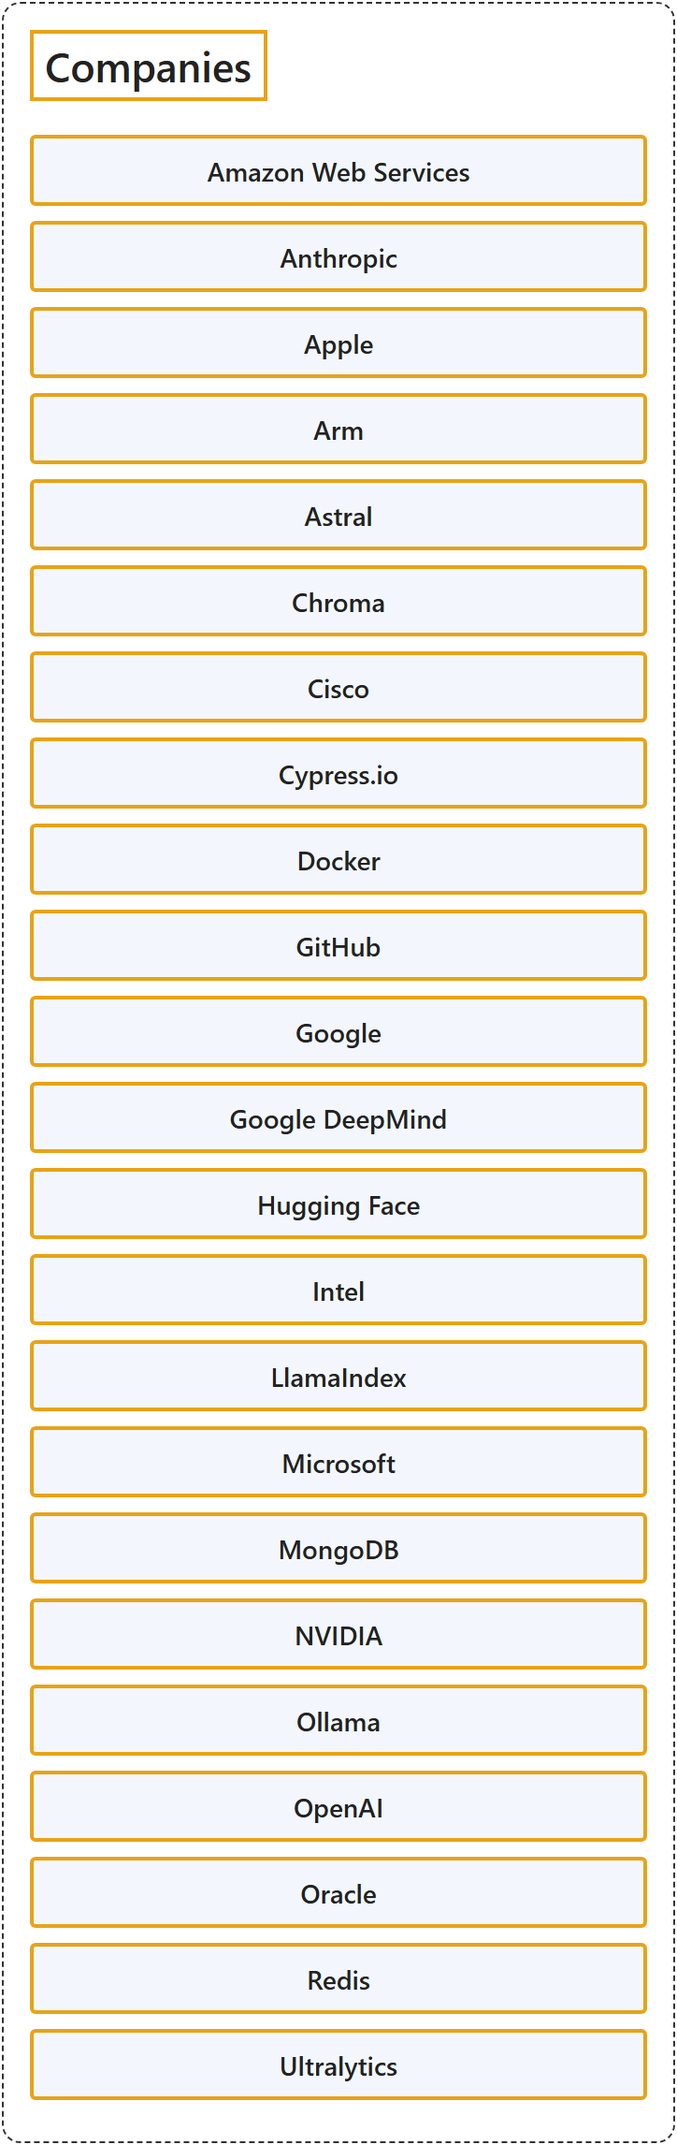
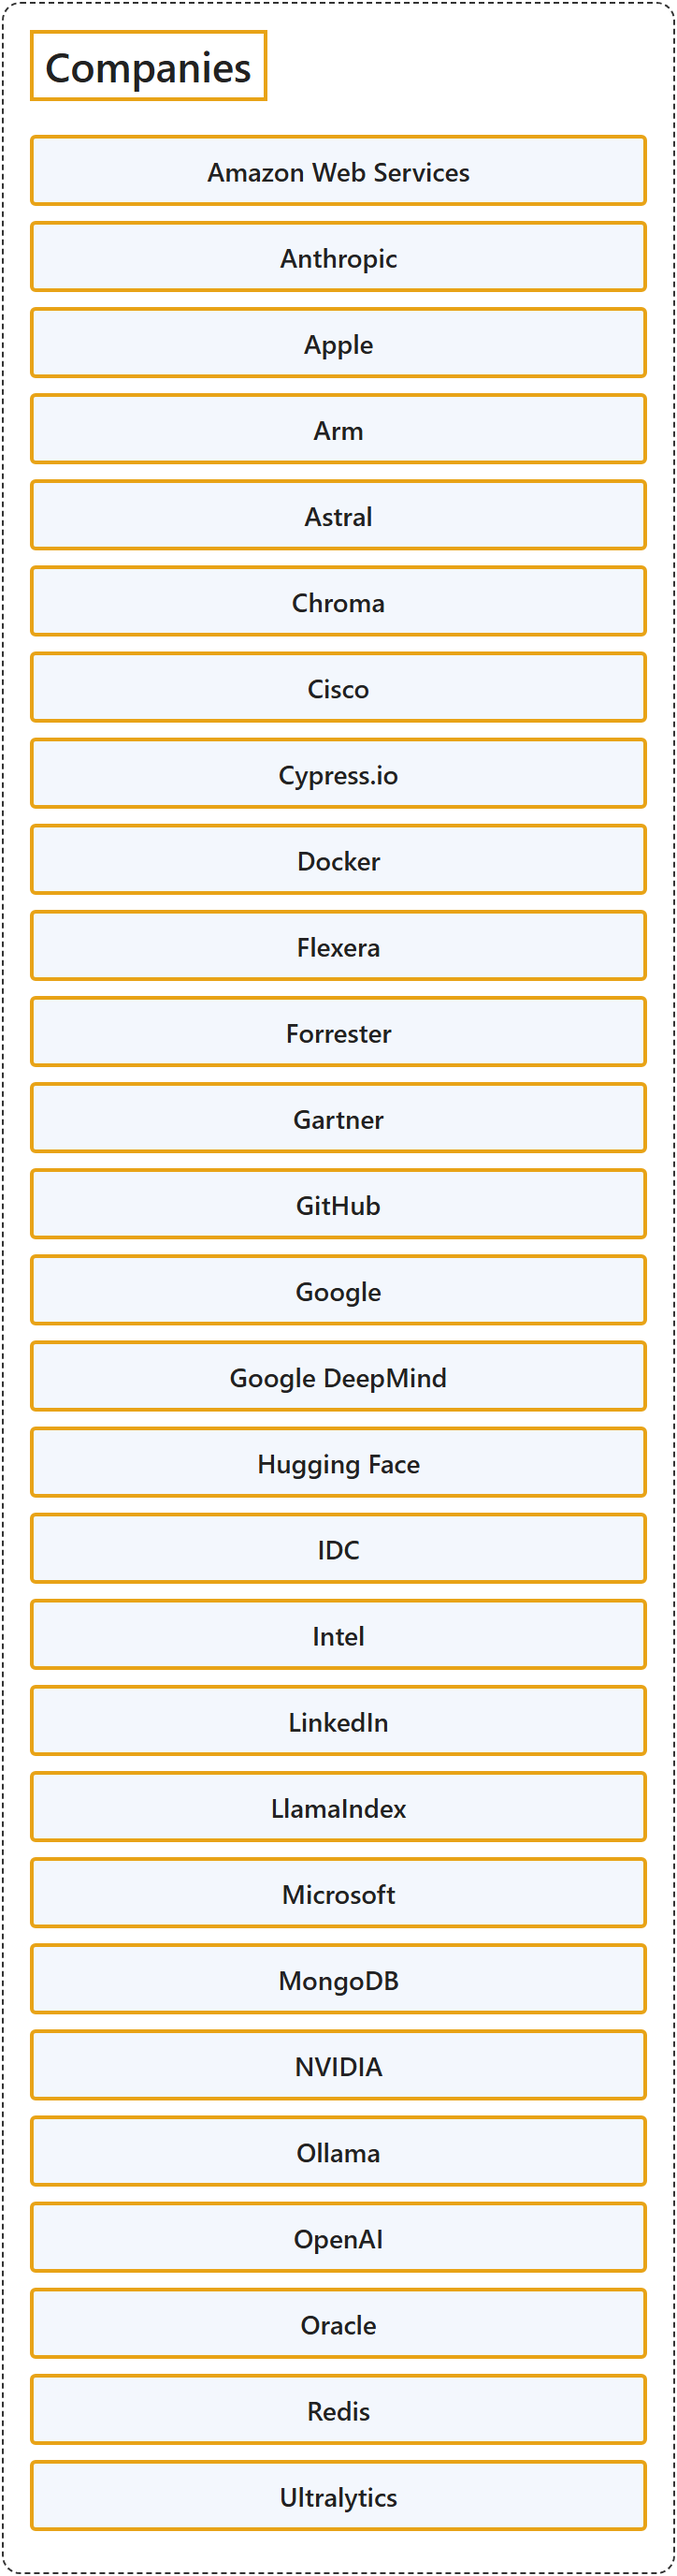
feat(sources): Companies adds Flexera, Forrester, Gartner, IDC and LinkedIn (28 members, renumbered), each quoting its own site; figures re-rendered

Changed region(s): [[0.0304, 0.0, 0.9724, 0.9913], [0.9724, 0.9913, 1.0, 1.0], [0.0, 0.9913, 0.0304, 1.0]]

diff --git a/figures/sources/sources.html b/figures/sources/sources.html
@@ -90,11 +90,16 @@
       <div class="item">Cisco</div>
       <div class="item">Cypress.io</div>
       <div class="item">Docker</div>
+      <div class="item">Flexera</div>
+      <div class="item">Forrester</div>
+      <div class="item">Gartner</div>
       <div class="item">GitHub</div>
       <div class="item">Google</div>
       <div class="item">Google DeepMind</div>
       <div class="item">Hugging Face</div>
+      <div class="item">IDC</div>
       <div class="item">Intel</div>
+      <div class="item">LinkedIn</div>
       <div class="item">LlamaIndex</div>
       <div class="item">Microsoft</div>
       <div class="item">MongoDB</div>

diff --git a/figures/sources/companies/companies.html b/figures/sources/companies/companies.html
@@ -26,11 +26,16 @@
     <div class="item">Cisco</div>
     <div class="item">Cypress.io</div>
     <div class="item">Docker</div>
+    <div class="item">Flexera</div>
+    <div class="item">Forrester</div>
+    <div class="item">Gartner</div>
     <div class="item">GitHub</div>
     <div class="item">Google</div>
     <div class="item">Google DeepMind</div>
     <div class="item">Hugging Face</div>
+    <div class="item">IDC</div>
     <div class="item">Intel</div>
+    <div class="item">LinkedIn</div>
     <div class="item">LlamaIndex</div>
     <div class="item">Microsoft</div>
     <div class="item">MongoDB</div>

diff --git a/docs/sources/companies/index.md b/docs/sources/companies/index.md
@@ -1,14 +1,14 @@
 ---
 title: "8. Companies"
-description: "Sources kind Companies: 23 of the publishers and documents this site cites."
-ms.date: 2026-10-27
+description: "Sources kind Companies: 28 of the publishers and documents this site cites."
+ms.date: 2026-11-03
 ---
 
 # 8. Companies
 
 ## Classification
 
-![Companies: its 23 members in one column: Amazon Web Services, Anthropic, Apple, Arm, Astral, Chroma, Cisco, Cypress.io, Docker, GitHub, Google, Google DeepMind, Hugging Face, Intel, LlamaIndex, Microsoft, MongoDB, NVIDIA, Ollama, OpenAI, Oracle, Redis, Ultralytics.](media/companies.png)
+![Companies: its 28 members in one column: Amazon Web Services, Anthropic, Apple, Arm, Astral, Chroma, Cisco, Cypress.io, Docker, Flexera, Forrester, Gartner, GitHub, Google, Google DeepMind, Hugging Face, IDC, Intel, LinkedIn, LlamaIndex, Microsoft, MongoDB, NVIDIA, Ollama, OpenAI, Oracle, Redis, Ultralytics.](media/companies.png)
 
 ## Glossary
 
@@ -24,11 +24,16 @@ ms.date: 2026-10-27
 | **[Cisco](cisco.md)**<br>思科 | "Cisco is the **worldwide technology leader** that is revolutionizing the way organizations **connect and protect** in the AI era." | 思科是**全球技术领导者**，正在彻底改变 AI 时代组织**连接与保护**的方式。 | [Cisco Systems, n.d., para. 1](https://investor.cisco.com/home/default.aspx#:~:text=Cisco%20is%20the%20worldwide%20technology%20leader%20that%20is) |
 | **[Cypress.io](cypress-io.md)**<br>Cypress.io | "Cypress **testing tools** support developers all around the world by making it **easier to build and test applications**." | Cypress **测试工具**为世界各地的开发者提供支持，使**构建和测试应用程序更加容易**。 | [Cypress.io, n.d., para. 1](https://www.cypress.io/about-us#:~:text=Cypress%20testing%20tools%20support%20developers%20all%20around%20the) |
 | **[Docker](docker.md)**<br>Docker | "Docker **changed how the world ships software**. Now we’re defining how **AI applications and agents are built, run, and governed** securely." | Docker **改变了世界交付软件的方式**。如今，我们正在定义 **AI 应用和智能体如何构建、运行和治理**，并确保其安全。 | [Docker, n.d., para. 1](https://www.docker.com/company/#:~:text=Docker%20changed%20how%20the%20world%20ships%20software.%20Now) |
+| **[Flexera](flexera.md)**<br>Flexera | "We are the **industry leader in hybrid IT asset management (ITAM) and FinOps**, with the numbers to back it up." | 我们是**混合 IT 资产管理（ITAM）和 FinOps 领域的行业领导者**，并有数据作证。 | [Flexera, n.d., "The intelligence to make better decisions, the data to bring teams together" section, para. 1](https://www.flexera.com/about-us#:~:text=We%20are%20the%20industry%20leader%20in%20hybrid%20IT) |
+| **[Forrester](forrester.md)**<br>Forrester | "Forrester helps **business and technology leaders** use **customer obsession** to **accelerate growth**." | Forrester 帮助**商业与技术领导者**运用**客户至上**理念**加速增长**。 | [Forrester, n.d., "About Us" section, para. 1](https://www.forrester.com/about-us/#:~:text=Forrester%20helps%20business%20and%20technology%20leaders%20use%20customer) |
+| **[Gartner](gartner.md)**<br>高德纳 | "We deliver **actionable, objective business and technology insights**." | 我们提供**可付诸行动、客观的商业与技术洞察**。 | [Gartner, n.d., opening heading](https://www.gartner.com/en/about#:~:text=We%20deliver%20actionable%2C%20objective%20business%20and%20technology%20insights) |
 | **[GitHub](github.md)**<br>GitHub | "The **complete developer platform** to **build, scale, and deliver secure software**." | **完整的开发者平台**，用于**构建、扩展和交付安全的软件**。 | [GitHub, n.d., para. 1](https://github.com/about#:~:text=The%20complete%20developer%20platform%20to%20build%2C%20scale%2C%20and) |
 | **[Google](google.md)**<br>谷歌 | "Our mission is to **organize the world’s information** and make it **universally accessible and useful**" | 我们的使命是**整合全球信息**，使其**人人皆可访问并从中受益**。 | [Google, n.d., para. 1](https://about.google/company-info/#:~:text=Our%20mission%20is%20to%20organize%20the%20world%E2%80%99s%20information) |
 | **[Google DeepMind](google-deepmind.md)**<br>谷歌 DeepMind | "Google DeepMind brings together **two of the world’s leading AI labs** — Google Brain and DeepMind — into a **single, focused team** led by our CEO Demis Hassabis." | Google DeepMind 将**全球两大领先 AI 实验室**（Google Brain 和 DeepMind）整合为一支由首席执行官 Demis Hassabis 领导的**专注的统一团队**。 | [Google DeepMind, n.d., para. 6](https://deepmind.google/about/#:~:text=Google%20DeepMind%20brings%20together%20two%20of%20the%20world%E2%80%99s) |
 | **[Hugging Face](hugging-face.md)**<br>Hugging Face | "We are on a mission to **democratize good machine learning**, one commit at a time." | 我们的使命是**让优秀的机器学习普及大众**，一次提交一步。 | [Hugging Face, n.d., para. 1](https://huggingface.co/huggingface#:~:text=We%20are%20on%20a%20mission%20to%20democratize%20good) |
+| **[IDC](idc.md)**<br>国际数据公司 | "Building a world where the **most trusted technology intelligence** makes **everyone better at what they do**." | 建设一个让**最值得信赖的技术情报**使**每个人都更擅长自己工作**的世界。 | [IDC, n.d., "We are the tech intelligence layer of the AI economy" section, para. 1](https://www.idc.com/about/#:~:text=Building%20a%20world%20where%20the%20most%20trusted%20technology) |
 | **[Intel](intel.md)**<br>英特尔 | "Intel (Nasdaq: INTC) **designs and manufactures advanced semiconductors** that **connect and power the modern world**." | 英特尔（Nasdaq: INTC）**设计和制造先进半导体**，**连接并驱动现代世界**。 | [Intel Corporation, 2026, "About Intel" section, para. 1](https://www.intc.com/news-events/press-releases/detail/1783/intel-accelerates-open-infrastructure-for-the-agentic-ai-era#:~:text=Intel%20%28Nasdaq%3A%20INTC%29%20designs%20and%20manufactures%20advanced%20semiconductors) |
+| **[LinkedIn](linkedin.md)**<br>领英 | "Welcome to LinkedIn, the **world's largest professional network** with **more than 1 billion members**" | 欢迎来到 LinkedIn，**全球最大的职业社交网络**，拥有**超过 10 亿会员**。 | [LinkedIn, n.d., "About LinkedIn" section, para. 1](https://about.linkedin.com/#:~:text=Welcome%20to%20LinkedIn%2C%20the%20world%27s%20largest%20professional%20network) |
 | **[LlamaIndex](llamaindex.md)**<br>LlamaIndex | "LlamaIndex is the **platform enterprises choose** to leverage **AI Agents for document OCR + AI workflows**." | LlamaIndex 是**企业首选的平台**，用于借助**面向文档 OCR 和 AI 工作流的 AI 智能体**开展工作。 | [LlamaIndex, n.d., para. 1](https://www.llamaindex.ai/about#:~:text=LlamaIndex%20is%20the%20platform%20enterprises%20choose%20to%20leverage) |
 | **[Microsoft](microsoft.md)**<br>微软 | "Microsoft’s mission is to **empower every person and every organization** on the planet to **achieve more**." | 微软的使命是**予力全球每一人、每一组织**，**成就不凡**。 | [Microsoft, n.d., para. 1](https://www.microsoft.com/en-us/about#:~:text=Microsoft%E2%80%99s%20mission%20is%20to%20empower%20every%20person%20and) |
 | **[MongoDB](mongodb.md)**<br>MongoDB | "MongoDB empowers innovators with our **intelligent data platform** for **modern, real-time, hybrid, multi-cloud applications** in the AI era." | MongoDB 以我们的**智能数据平台**赋能创新者，支持 AI 时代的**现代、实时、混合、多云应用**。 | [MongoDB, n.d., "What we do" section, para. 1](https://www.mongodb.com/company#:~:text=MongoDB%20empowers%20innovators%20with%20our%20intelligent%20data%20platform) |
@@ -61,15 +66,25 @@ Cypress.io. (n.d.). *About the team building Cypress*. Retrieved October 27, 202
 
 Docker. (n.d.). *About Docker*. Retrieved October 27, 2026, from <https://www.docker.com/company/>
 
-GitHub. (n.d.). *About GitHub*. Retrieved October 27, 2026, from <https://github.com/about>
+Flexera. (n.d.). *About us*. Retrieved November 3, 2026, from <https://www.flexera.com/about-us>
 
-Google DeepMind. (n.d.). *About Google DeepMind*. Retrieved October 27, 2026, from <https://deepmind.google/about/>
+Forrester. (n.d.). *About us*. Retrieved November 3, 2026, from <https://www.forrester.com/about-us/>
+
+Gartner. (n.d.). *About Gartner: Company information & leadership*. Retrieved November 3, 2026, from <https://www.gartner.com/en/about>
+
+GitHub. (n.d.). *About GitHub*. Retrieved October 27, 2026, from <https://github.com/about>
 
 Google. (n.d.). *About Google: History, office locations, commitments, initiatives*. Retrieved October 27, 2026, from <https://about.google/company-info/>
 
+Google DeepMind. (n.d.). *About Google DeepMind*. Retrieved October 27, 2026, from <https://deepmind.google/about/>
+
 Hugging Face. (n.d.). *huggingface (Hugging Face)*. Retrieved October 27, 2026, from <https://huggingface.co/huggingface>
 
+IDC. (n.d.). *About IDC*. Retrieved November 3, 2026, from <https://www.idc.com/about/>
+
 Intel Corporation. (2026, October 12). *Intel accelerates open infrastructure for the agentic AI era*. Retrieved October 27, 2026, from <https://www.intc.com/news-events/press-releases/detail/1783/intel-accelerates-open-infrastructure-for-the-agentic-ai-era>
+
+LinkedIn. (n.d.). *About LinkedIn*. Retrieved November 3, 2026, from <https://about.linkedin.com/>
 
 LlamaIndex. (n.d.). *LlamaIndex - About us*. Retrieved October 27, 2026, from <https://www.llamaindex.ai/about>
 

diff --git a/docs/sources/index.md b/docs/sources/index.md
@@ -1,14 +1,14 @@
 ---
 title: "Sources"
 description: "Sources: the kinds of publishers and documents this site cites, from standards developing organizations to open-source projects."
-ms.date: 2026-10-27
+ms.date: 2026-11-03
 ---
 
 # Sources
 
 ## Classification
 
-![Sources: the publishers and documents this site cites, in 9 kinds, one group each, members in alphabetical order: Standards Developing Organizations (Ecma International, IEC, IETF, ISO, ISO/IEC JTC 1, Khronos Group, RISC-V International, W3C, WHATWG); Government Agencies (NIST, NLM); Learned Societies (ACM, American Chemical Society, American Economic Association, American Geophysical Union, American Mathematical Society, American Physical Society, IEEE Computer Society); Classification Systems (ACM CCS, AGROVOC, AGU Index Terms, CAS Sections, ELSST, IEEE Thesaurus, JEL, MeSH, MSC2020, PhySH, UNESCO Thesaurus); Curricula (CC2020, CS2023); Reference Works (Cambridge Dictionary, MathWorld, MITRE ATT&CK, NIST CSRC Glossary, NIST DADS, RFC Editor, World of Physics, zbMATH Open); Certification Bodies (Cisco, CompTIA, ISC2, ISTQB, Microsoft); Companies (Amazon Web Services, Anthropic, Apple, Arm, Astral, Chroma, Cisco, Cypress.io, Docker, GitHub, Google, Google DeepMind, Hugging Face, Intel, LlamaIndex, Microsoft, MongoDB, NVIDIA, Ollama, OpenAI, Oracle, Redis, Ultralytics); Open-Source Projects (Apache Software Foundation, Farama Foundation, Git, GraphQL Foundation, Kubernetes, Linux Kernel, LLVM, Model Context Protocol, Mozilla, Open Robotics, OpenCV, OpenJS Foundation, OWASP Foundation, PostgreSQL, pytest, Python Software Foundation, PyTorch Foundation, scikit-learn, Selenium, Stable-Baselines3, Vitest).](media/sources.png)
+![Sources: the publishers and documents this site cites, in 9 kinds, one group each, members in alphabetical order: Standards Developing Organizations (Ecma International, IEC, IETF, ISO, ISO/IEC JTC 1, Khronos Group, RISC-V International, W3C, WHATWG); Government Agencies (NIST, NLM); Learned Societies (ACM, American Chemical Society, American Economic Association, American Geophysical Union, American Mathematical Society, American Physical Society, IEEE Computer Society); Classification Systems (ACM CCS, AGROVOC, AGU Index Terms, CAS Sections, ELSST, IEEE Thesaurus, JEL, MeSH, MSC2020, PhySH, UNESCO Thesaurus); Curricula (CC2020, CS2023); Reference Works (Cambridge Dictionary, MathWorld, MITRE ATT&CK, NIST CSRC Glossary, NIST DADS, RFC Editor, World of Physics, zbMATH Open); Certification Bodies (Cisco, CompTIA, ISC2, ISTQB, Microsoft); Companies (Amazon Web Services, Anthropic, Apple, Arm, Astral, Chroma, Cisco, Cypress.io, Docker, Flexera, Forrester, Gartner, GitHub, Google, Google DeepMind, Hugging Face, IDC, Intel, LinkedIn, LlamaIndex, Microsoft, MongoDB, NVIDIA, Ollama, OpenAI, Oracle, Redis, Ultralytics); Open-Source Projects (Apache Software Foundation, Farama Foundation, Git, GraphQL Foundation, Kubernetes, Linux Kernel, LLVM, Model Context Protocol, Mozilla, Open Robotics, OpenCV, OpenJS Foundation, OWASP Foundation, PostgreSQL, pytest, Python Software Foundation, PyTorch Foundation, scikit-learn, Selenium, Stable-Baselines3, Vitest).](media/sources.png)
 
 ## Glossary
 

diff --git a/docs/sources/companies/google-deepmind.md b/docs/sources/companies/google-deepmind.md
@@ -1,7 +1,7 @@
 ---
-title: "8.12 Google DeepMind"
+title: "8.15 Google DeepMind"
 description: "Sources > Companies > Google DeepMind."
 ms.date: 2026-10-27
 ---
 
-# 8.12 Google DeepMind
+# 8.15 Google DeepMind

diff --git a/docs/sources/companies/hugging-face.md b/docs/sources/companies/hugging-face.md
@@ -1,7 +1,7 @@
 ---
-title: "8.13 Hugging Face"
+title: "8.16 Hugging Face"
 description: "Sources > Companies > Hugging Face."
 ms.date: 2026-10-27
 ---
 
-# 8.13 Hugging Face
+# 8.16 Hugging Face

diff --git a/docs/sources/companies/ultralytics.md b/docs/sources/companies/ultralytics.md
@@ -1,7 +1,7 @@
 ---
-title: "8.23 Ultralytics"
+title: "8.28 Ultralytics"
 description: "Sources > Companies > Ultralytics."
 ms.date: 2026-10-27
 ---
 
-# 8.23 Ultralytics
+# 8.28 Ultralytics

diff --git a/docs/sources/companies/llamaindex.md b/docs/sources/companies/llamaindex.md
@@ -1,7 +1,7 @@
 ---
-title: "8.15 LlamaIndex"
+title: "8.20 LlamaIndex"
 description: "Sources > Companies > LlamaIndex."
 ms.date: 2026-10-27
 ---
 
-# 8.15 LlamaIndex
+# 8.20 LlamaIndex

diff --git a/docs/sources/companies/microsoft.md b/docs/sources/companies/microsoft.md
@@ -1,7 +1,7 @@
 ---
-title: "8.16 Microsoft"
+title: "8.21 Microsoft"
 description: "Sources > Companies > Microsoft."
 ms.date: 2026-10-27
 ---
 
-# 8.16 Microsoft
+# 8.21 Microsoft

diff --git a/docs/sources/companies/mongodb.md b/docs/sources/companies/mongodb.md
@@ -1,7 +1,7 @@
 ---
-title: "8.17 MongoDB"
+title: "8.22 MongoDB"
 description: "Sources > Companies > MongoDB."
 ms.date: 2026-10-27
 ---
 
-# 8.17 MongoDB
+# 8.22 MongoDB

diff --git a/docs/sources/companies/github.md b/docs/sources/companies/github.md
@@ -1,7 +1,7 @@
 ---
-title: "8.10 GitHub"
+title: "8.13 GitHub"
 description: "Sources > Companies > GitHub."
 ms.date: 2026-10-27
 ---
 
-# 8.10 GitHub
+# 8.13 GitHub

diff --git a/docs/sources/companies/google.md b/docs/sources/companies/google.md
@@ -1,7 +1,7 @@
 ---
-title: "8.11 Google"
+title: "8.14 Google"
 description: "Sources > Companies > Google."
 ms.date: 2026-10-27
 ---
 
-# 8.11 Google
+# 8.14 Google
